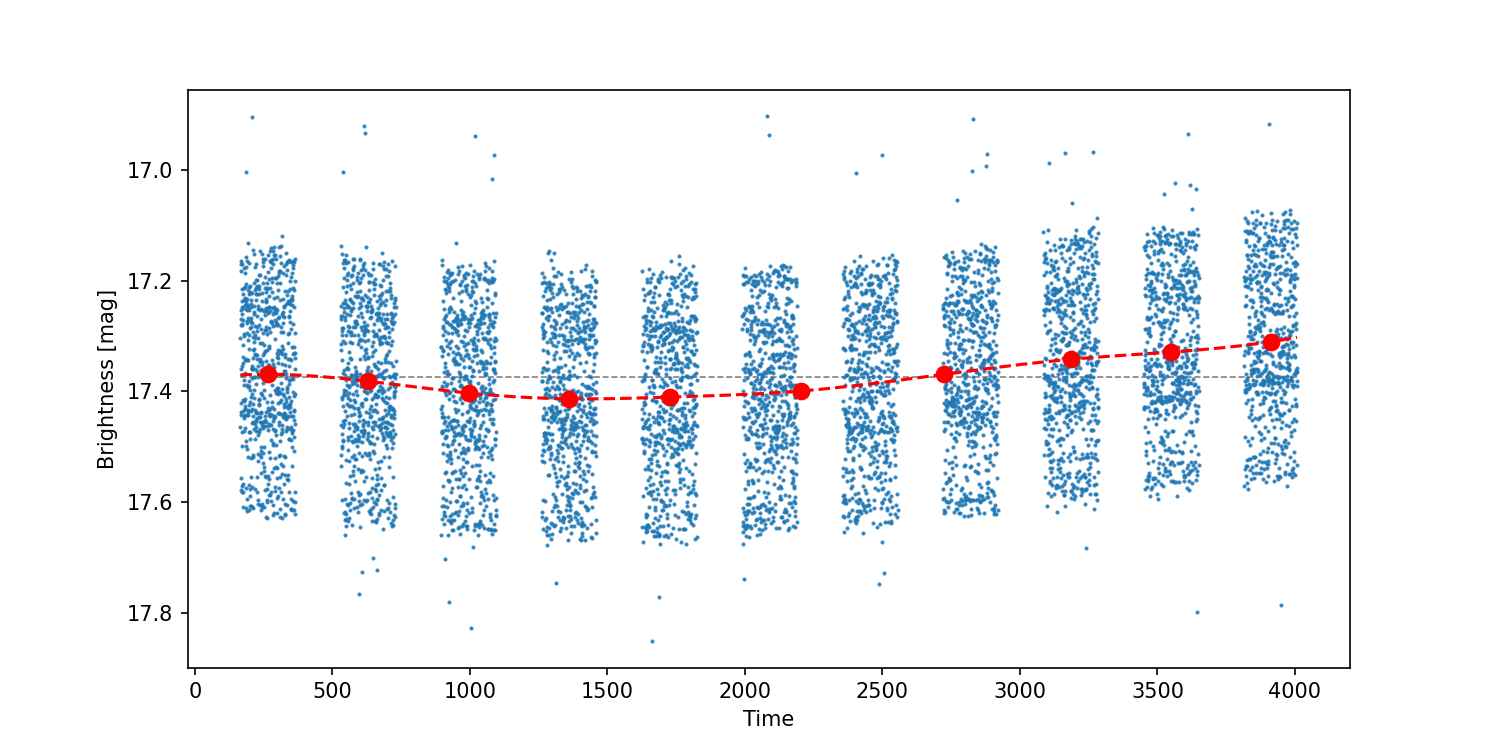
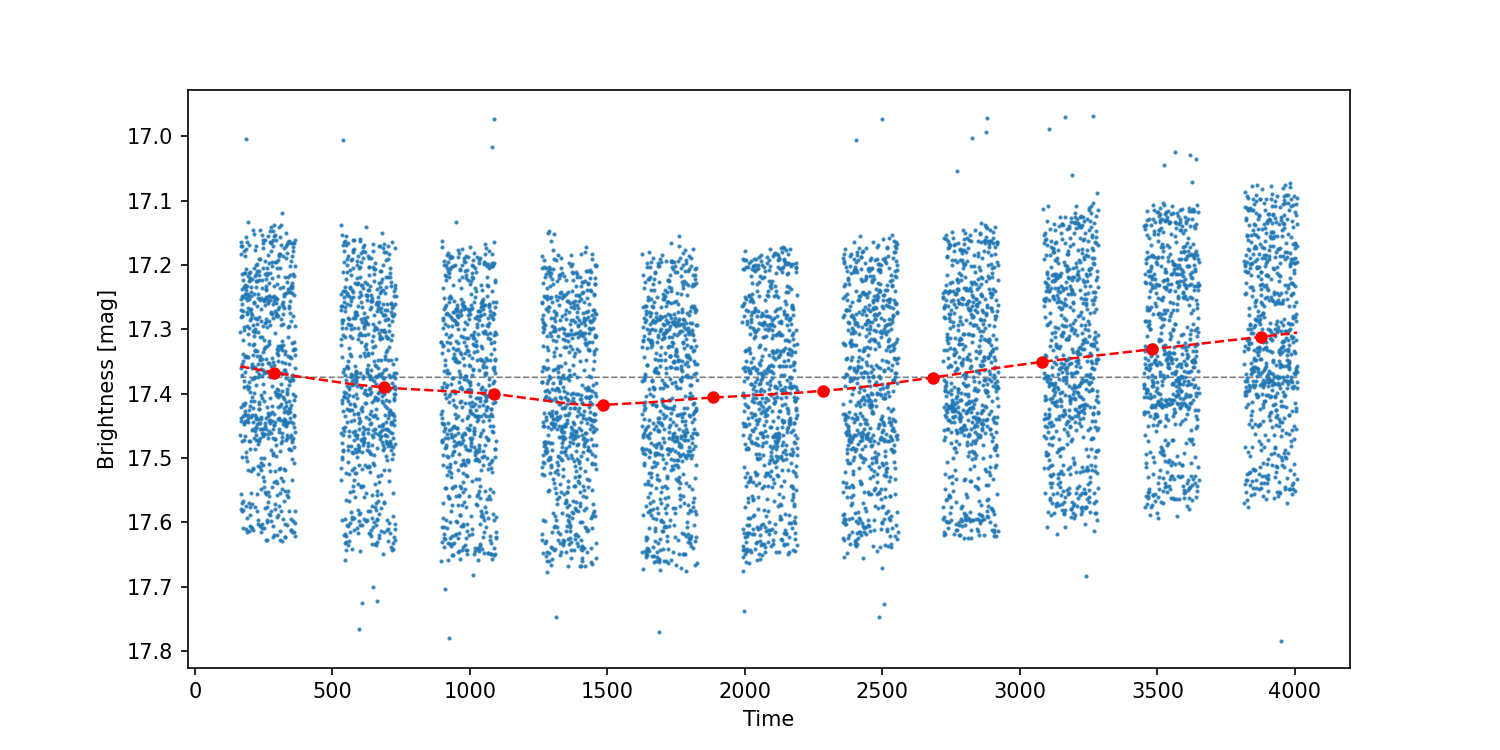
Update documentation

diff --git a/doc/usage.md b/doc/usage.md
@@ -20,6 +20,8 @@ We can change the number of nodes. If we type `n` then `11`, we get the followin
 
 <img src="resources/rr_lyr_detrend-2.png" width="800" alt="rr_lyr_detrend-2.png">
 
+> :point_right: **_NOTE:_** The number of nodes can be less than typed. This may happen for data with gaps in the time domain. If the position of a node covers such gap it will be removed. In other words some data around a node are required to compute its position.
+
 It seems to be right. In the next step the software removes the trend and performs sigma clipping on the time series automatically. After that an interactive window appears. If the result is not satisfactory, we can improve it just clicking on the window twice. All points lying outside two horizontal lines are removed and colored by red:
 
 <img src="resources/rr_lyr_trim.png" width="800" alt="rr_lyr_trim.png">
